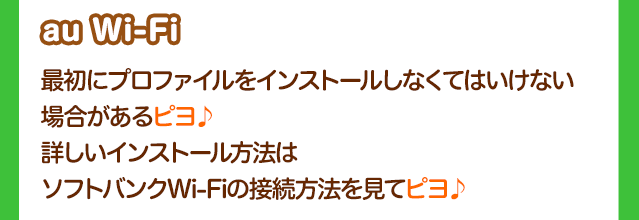
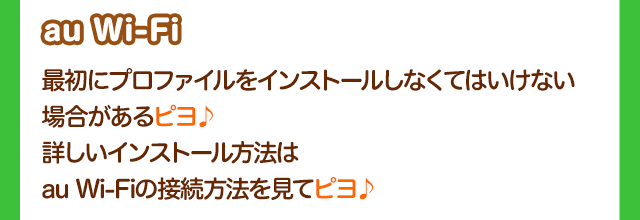
文言変更

diff --git a/PiyoTraffic/howtowifi.html b/PiyoTraffic/howtowifi.html
@@ -38,11 +38,11 @@
     </div>
     <div class="text_wifi_guide_howto_02_02">
     [au Wi-Fi]最初にプロファイルをインストールしなくてはいけない場合があるピヨ♪
-    詳しいインストール方法はソフトバンクWi-Fiの接続方法を見てピヨ♪
+    詳しいインストール方法はau Wi-Fiの接続方法を見てピヨ♪
     </div>
     <div class="text_wifi_guide_howto_02_03">
-    [docomo Wi-Fi]最初にWi-FiユーザIDのパスワードを入力する必要があるピヨ♪
-    Wi-FiユーザIDの詳しい内容はdocomo Wi-Fiの接続方法を見てピヨ♪
+    [docomo Wi-Fi]最初にdocomo Wi-FiユーザIDのパスワードを入力する必要があるピヨ♪
+    docomo Wi-FiユーザIDの詳しい内容はdocomo Wi-Fiの接続方法を見てピヨ♪
     </div>
     <p class="alert_text">Wi-Fiの注意点<br>
     キャリアのWi-FiスポットやBBモバイルポイント以外にも、利用できるWi-Fiスポットがあるけど、セキュリティ対策が不十分なものもあるので注意するピヨ！</p>
